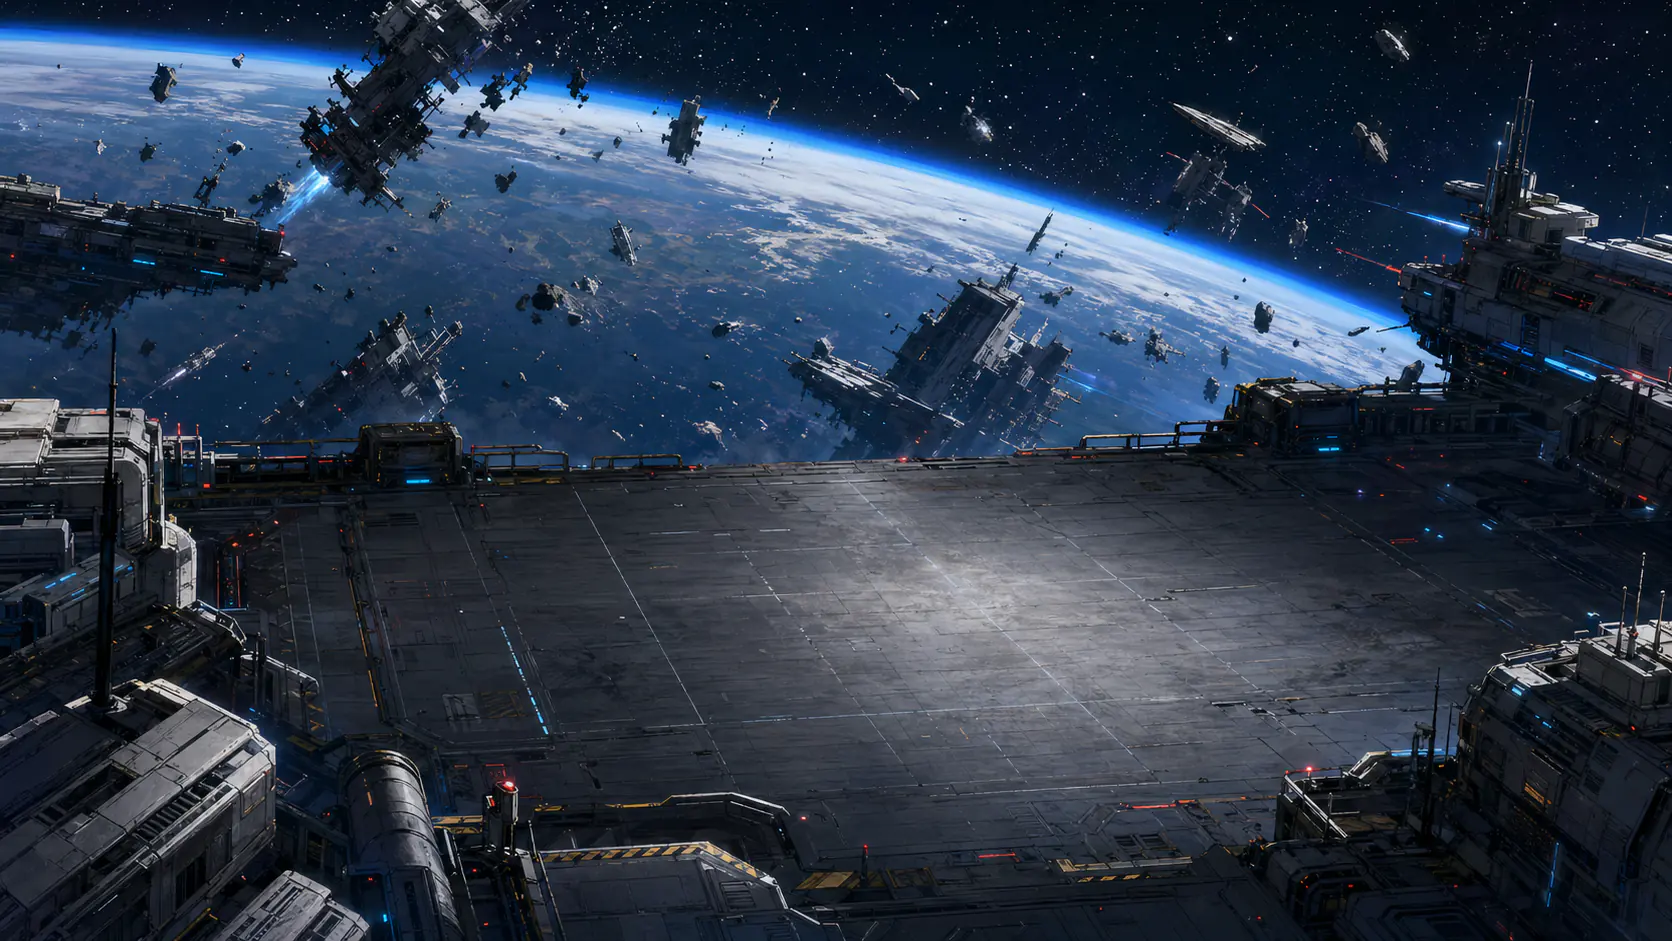
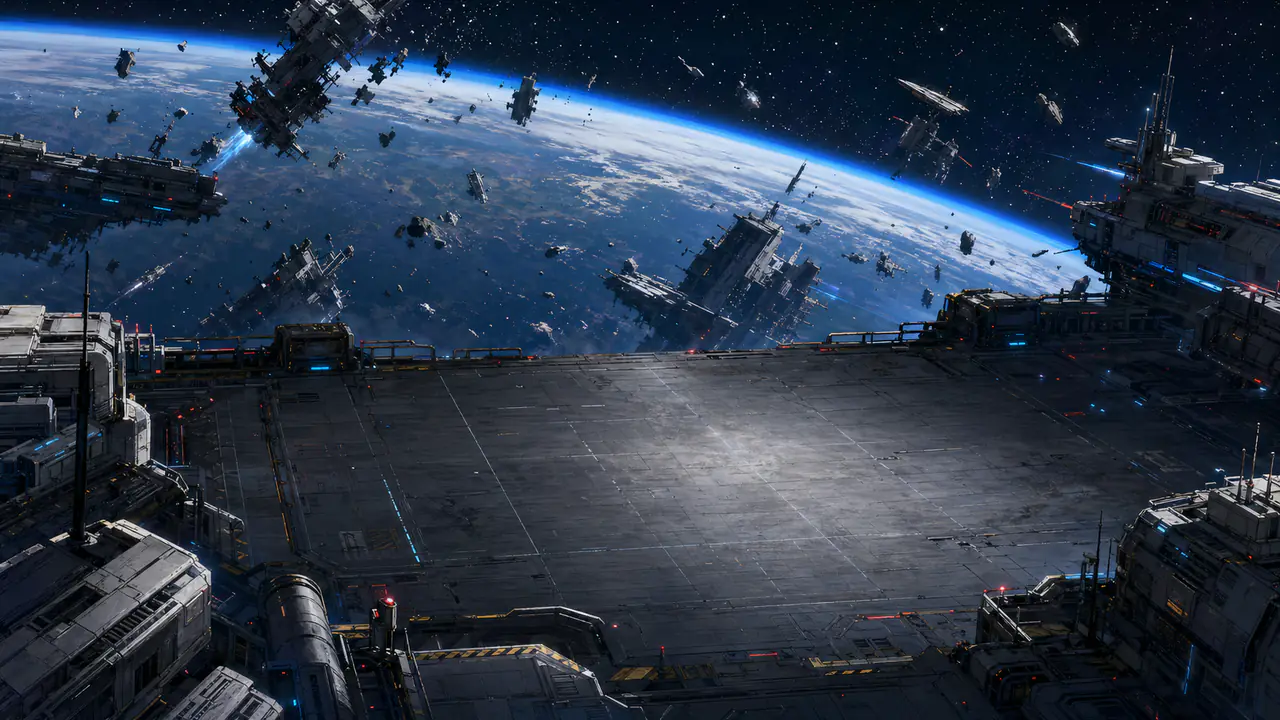
Add files via upload

diff --git a/src/main.js b/src/main.js
@@ -31,6 +31,8 @@ const pauseToggleEl = document.getElementById("pause-toggle");
 const pauseOverlayEl = document.getElementById("pause-overlay");
 const pauseResumeEl = document.getElementById("pause-resume");
 const pauseFormationEl = document.getElementById("pause-formation");
+const loadingEl = document.getElementById("loading-overlay");
+const loadingCopyEl = document.getElementById("loading-copy");
 
 const W = 1280;
 const H = 720;
@@ -43,7 +45,7 @@ const dist = (a, b) => Math.hypot(a.x - b.x, a.y - b.y);
 const weaponDistance = (attacker, target) => Math.max(0, dist(attacker, target) - (target.faction === "Enemy" ? (target.radius || 0) * 0.72 : bodyRadius(target) * 0.35));
 const now = () => performance.now() / 1000;
 const battlefieldArt = "assets/battlefield-bg.webp";
-const BACKDROP_VERSION = 20;
+const BACKDROP_VERSION = 21;
 const UNIT_ART_VERSION = 35;
 const REWARD_ICON_VERSION = 18;
 const SKILL_ICON_VERSION = 35;
@@ -461,6 +463,7 @@ let gravityFields = [];
 let skillEffects = [];
 let stars = [];
 const art = new Map();
+const artLoadPromises = new Map();
 let hudCardsSignature = "";
 let skillBarSignature = "";
 
@@ -1517,10 +1520,12 @@ function advanceRound() {
   spawnWave();
 }
 
-function showReward() {
+async function showReward() {
   running = false;
   setPauseButtonVisible(false);
   rewardChoices = pickRewards();
+  showLoading("載入獎勵圖像...");
+  await loadRewardArt(rewardChoices);
   rewardOptionsEl.innerHTML = rewardChoices.map((reward, index) => `
     <button class="reward-card" data-reward-index="${index}">
       <img src="${assetSrc(reward.icon)}" alt="${reward.name} icon" />
@@ -1531,6 +1536,7 @@ function showReward() {
       </div>
     </button>
   `).join("");
+  hideLoading();
   rewardEl.hidden = false;
   setMessage("選擇一項強化");
 }
@@ -1793,39 +1799,44 @@ function toggleFormationUnit(name) {
   renderFormation();
 }
 
-function showFormation() {
+async function showFormation() {
   running = false;
   setPauseButtonVisible(false);
+  showLoading("載入編隊機體...");
+  if (selectedSquadNames.length !== 4) selectedSquadNames = [...defaultSquadNames];
+  formationFocusName = selectedSquadNames[0] || defaultSquadNames[0];
+  await loadFormationArt();
   document.body.classList.add("setup-mode");
   briefingEl.hidden = true;
   rewardEl.hidden = true;
   resultEl.hidden = true;
   resultEl.classList.remove("lost", "won");
   formationEl.hidden = false;
-  hydrateDeferredImages(formationEl);
   renderDatabase();
-  loadFormationArt();
-  loadBattleArt();
-  if (selectedSquadNames.length !== 4) selectedSquadNames = [...defaultSquadNames];
-  formationFocusName = selectedSquadNames[0] || defaultSquadNames[0];
   resizeCanvas();
   renderFormation();
+  await hydrateDeferredImages(formationEl);
+  hideLoading();
+  loadBattleArt();
 }
 
-function startBattleFromFormation() {
+async function startBattleFromFormation() {
   if (selectedSquadNames.length !== 4) {
     setMessage("請選擇 4 架機體出擊。");
     renderFormation();
     return;
   }
+  showLoading("載入戰鬥機體...");
+  await loadBattleArt();
   formationEl.hidden = true;
   document.body.classList.remove("setup-mode");
-  loadBattleArt();
   resizeCanvas();
   reset();
   running = true;
   setPauseButtonVisible(true);
   last = now();
+  hideLoading();
+  loadAllRewardArt();
 }
 
 function renderDatabase() {
@@ -2591,24 +2602,59 @@ function initStars() {
   }));
 }
 
-function preloadArt(paths) {
-  paths.forEach((path) => {
-    if (!path || art.has(path)) return;
-    const img = new Image();
+function showLoading(message) {
+  if (loadingCopyEl && message) loadingCopyEl.textContent = message;
+  if (loadingEl) loadingEl.hidden = false;
+}
+
+function hideLoading() {
+  if (loadingEl) loadingEl.hidden = true;
+}
+
+function loadImageAsset(path) {
+  if (!path) return Promise.resolve(null);
+  const src = assetSrc(path);
+  let img = art.get(path);
+  if (img?.complete && img.naturalWidth > 0 && img.src.endsWith(src)) return Promise.resolve(img);
+  if (artLoadPromises.has(path)) return artLoadPromises.get(path);
+
+  if (!img) {
+    img = new Image();
     img.decoding = "async";
-    img.src = assetSrc(path);
     art.set(path, img);
+  }
+
+  const promise = new Promise((resolve) => {
+    const finish = async () => {
+      try {
+        if (img.decode) await img.decode();
+      } catch {
+        // Decoding failure should not trap the player on the loading overlay.
+      }
+      resolve(img);
+    };
+    img.onload = finish;
+    img.onerror = finish;
+    img.src = src;
+    if (img.complete) finish();
   });
+  artLoadPromises.set(path, promise);
+  return promise;
+}
+
+function preloadArt(paths) {
+  return Promise.all([...paths].map(loadImageAsset));
 }
 
 function loadFormationArt() {
   const paths = new Set();
+  paths.add(battlefieldArt);
   squadSeeds.forEach((unit) => {
     paths.add(unit.art);
     if (unit.sprite) paths.add(unit.sprite);
   });
   Object.values(enemyTypes).forEach((unit) => paths.add(unit.art));
-  preloadArt(paths);
+  return preloadArt(paths);
 }
 
 function loadBattleArt() {
@@ -2616,19 +2662,42 @@ function loadBattleArt() {
   selectedSquadSeeds().forEach((unit) => {
     if (unit.sprite) paths.add(unit.sprite);
     if (unit.sheet) paths.add(unit.sheet);
+    if (unit.activeIcon) paths.add(unit.activeIcon);
+    if (unit.ultimateIcon) paths.add(unit.ultimateIcon);
   });
   Object.values(enemyTypes).forEach((unit) => {
     if (unit.sprite) paths.add(unit.sprite);
     if (unit.sheet) paths.add(unit.sheet);
   });
-  preloadArt(paths);
+  return preloadArt(paths);
+}
+
+function loadRewardArt(rewards) {
+  return preloadArt(new Set(rewards.map((reward) => reward.icon)));
+}
+
+function loadAllRewardArt() {
+  return preloadArt(new Set(upgradePool.map((reward) => reward.icon)));
+}
+
+function warmGameArt() {
+  loadFormationArt()
+    .then(() => loadBattleArt())
+    .then(() => loadAllRewardArt());
 }
 
 function hydrateDeferredImages(root = document) {
-  root.querySelectorAll("img[data-src]").forEach((img) => {
-    if (img.getAttribute("src")) return;
+  const images = [...root.querySelectorAll("img[data-src]")];
+  return Promise.all(images.map((img) => new Promise((resolve) => {
+    if (img.getAttribute("src") && img.complete) {
+      resolve(img);
+      return;
+    }
+    img.onload = () => resolve(img);
+    img.onerror = () => resolve(img);
     img.src = img.dataset.src;
-  });
+    if (img.complete) resolve(img);
+  })));
 }
 
 canvas.addEventListener("pointerdown", (event) => {
@@ -2748,6 +2817,11 @@ window.addEventListener("keydown", (event) => {
 });
 
 window.addEventListener("resize", resizeCanvas);
+window.addEventListener("load", () => {
+  setTimeout(() => {
+    warmGameArt();
+  }, 500);
+}, { once: true });
 initStars();
 resizeCanvas();
 loadLeaderboard();

diff --git a/src/styles.css b/src/styles.css
@@ -376,7 +376,7 @@ body.paused-mode #game {
   align-items: start;
   background:
     linear-gradient(90deg, rgba(4, 6, 10, 0.88), rgba(4, 6, 10, 0.28)),
-    url("../assets/game-over-screen.webp?v=20") center / cover no-repeat;
+    url("../assets/game-over-screen.webp?v=21") center / cover no-repeat;
   grid-template-columns: minmax(320px, 620px) minmax(300px, 430px);
   justify-items: start;
   overflow-x: hidden;
@@ -386,7 +386,7 @@ body.paused-mode #game {
 #result.won {
   background:
     linear-gradient(90deg, rgba(4, 8, 14, 0.9), rgba(4, 8, 14, 0.42)),
-    url("../assets/battlefield-bg.webp?v=20") center / cover no-repeat;
+    url("../assets/battlefield-bg.webp?v=21") center / cover no-repeat;
 }
 
 #result::before {
@@ -634,7 +634,7 @@ body.paused-mode #game {
   background:
     linear-gradient(180deg, rgba(4, 7, 12, 0.08), rgba(4, 7, 12, 0.7)),
     radial-gradient(circle at 50% 50%, rgba(5, 8, 14, 0.16), rgba(5, 8, 14, 0.78)),
-    url("../assets/title-screen.webp?v=20") center / cover no-repeat;
+    url("../assets/title-screen.webp?v=21") center / cover no-repeat;
   grid-template-areas:
     "title board"
     "start board";
@@ -653,11 +653,72 @@ body.paused-mode #game {
   display: none;
 }
 
+.loading-overlay {
+  position: absolute;
+  inset: 0;
+  z-index: 40;
+  display: grid;
+  place-items: center;
+  background:
+    radial-gradient(circle at 50% 48%, rgba(75, 228, 255, 0.12), transparent 34%),
+    rgba(2, 5, 10, 0.72);
+  backdrop-filter: blur(5px);
+}
+
+.loading-overlay[hidden] {
+  display: none;
+}
+
+.loading-panel {
+  display: grid;
+  gap: 8px;
+  justify-items: center;
+  min-width: 220px;
+  padding: 22px 26px;
+  border: 1px solid rgba(75, 228, 255, 0.56);
+  border-radius: 8px;
+  background: rgba(6, 12, 20, 0.84);
+  box-shadow: 0 0 28px rgba(75, 228, 255, 0.18), inset 0 0 24px rgba(75, 228, 255, 0.08);
+  color: #eef7ff;
+  text-align: center;
+}
+
+.loading-panel strong {
+  color: #ffffff;
+  font-family: Impact, "Arial Black", "Microsoft JhengHei", sans-serif;
+  font-size: 30px;
+  letter-spacing: 0;
+  line-height: 1;
+  text-shadow: 0 0 16px rgba(75, 228, 255, 0.55);
+}
+
+.loading-panel small {
+  color: #bfeeff;
+  font-size: 15px;
+  font-weight: 800;
+}
+
+.loading-ring {
+  width: 48px;
+  height: 48px;
+  border: 3px solid rgba(75, 228, 255, 0.24);
+  border-top-color: #6ff3ff;
+  border-radius: 50%;
+  box-shadow: 0 0 18px rgba(75, 228, 255, 0.42);
+  animation: loading-spin 0.78s linear infinite;
+}
+
+@keyframes loading-spin {
+  to {
+    transform: rotate(360deg);
+  }
+}
+
 #formation {
   align-content: start;
   background:
     linear-gradient(180deg, rgba(5, 8, 14, 0.93), rgba(5, 8, 14, 0.84)),
-    url("../assets/battlefield-bg.webp?v=20") center / cover no-repeat;
+    url("../assets/battlefield-bg.webp?v=21") center / cover no-repeat;
   justify-items: stretch;
   overflow-y: auto;
   padding: clamp(14px, 2.4vw, 28px);
@@ -1666,7 +1727,7 @@ h1 {
     background:
       linear-gradient(180deg, rgba(4, 7, 12, 0.2), rgba(4, 7, 12, 0.78)),
       radial-gradient(circle at 50% 48%, rgba(5, 8, 14, 0.1), rgba(5, 8, 14, 0.82)),
-      url("../assets/title-screen.webp?v=20") center / cover no-repeat;
+      url("../assets/title-screen.webp?v=21") center / cover no-repeat;
     gap: 16px;
   }
 

diff --git a/index.html b/index.html
@@ -4,8 +4,8 @@
     <meta charset="UTF-8" />
     <meta name="viewport" content="width=device-width, initial-scale=1.0" />
     <title>Mecha Heart</title>
-    <link rel="preload" as="image" href="assets/title-screen.webp?v=20" type="image/webp" fetchpriority="high" />
-    <link rel="stylesheet" href="src/styles.css?v=34" />
+    <link rel="preload" as="image" href="assets/title-screen.webp?v=21" type="image/webp" fetchpriority="high" />
+    <link rel="stylesheet" href="src/styles.css?v=35" />
   </head>
   <body class="setup-mode">
     <main id="game-shell">
@@ -13,6 +13,13 @@
         <canvas id="game" width="1280" height="720" aria-label="宇宙心戰隊戰場"></canvas>
         <div id="skill-bar">
           <div id="skill-buttons"></div>
+        </div>
+        <div id="loading-overlay" class="loading-overlay" hidden>
+          <div class="loading-panel">
+            <span class="loading-ring" aria-hidden="true"></span>
+            <strong>Loading</strong>
+            <small id="loading-copy">載入機體圖像...</small>
+          </div>
         </div>
         <button id="pause-toggle" class="pause-toggle" type="button" aria-label="暫停遊戲" aria-pressed="false" hidden>
           <span class="pause-icon" aria-hidden="true"></span>
@@ -78,11 +85,11 @@
                 <div class="database-art">
                   <figure>
                     <figcaption>玩家機體設計</figcaption>
-                    <img data-src="assets/player-new-lineup.webp?v=5" loading="lazy" decoding="async" alt="Six redesigned player mobile suits" />
+                    <img data-src="assets/player-new-lineup.webp?v=6" loading="lazy" decoding="async" alt="Six redesigned player mobile suits" />
                   </figure>
                   <figure>
                     <figcaption>敵方機體設計</figcaption>
-                    <img data-src="assets/enemy-variants.webp?v=19" loading="lazy" decoding="async" alt="Enemy original mobile suit sprite art" />
+                    <img data-src="assets/enemy-variants.webp?v=20" loading="lazy" decoding="async" alt="Enemy original mobile suit sprite art" />
                   </figure>
                 </div>
                 <div id="database-list"></div>
@@ -133,6 +140,6 @@
         </div>
       </aside>
     </main>
-    <script src="src/main.js?v=48"></script>
+    <script src="src/main.js?v=49"></script>
   </body>
 </html>
